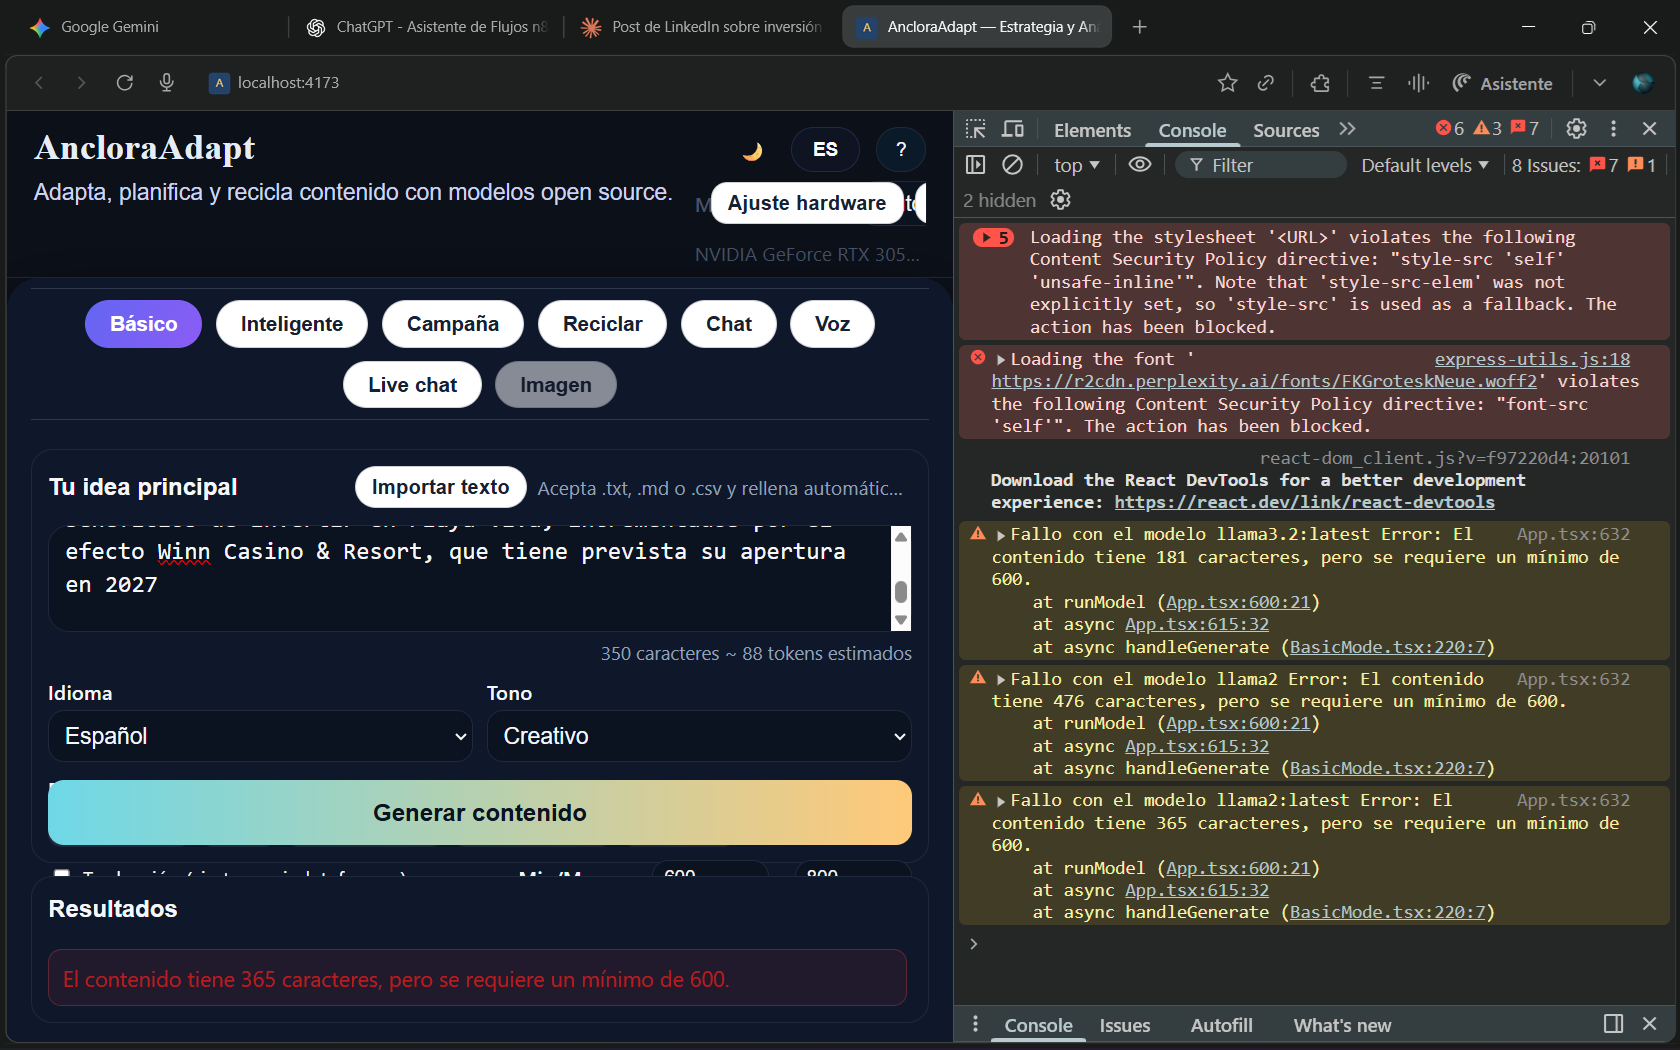
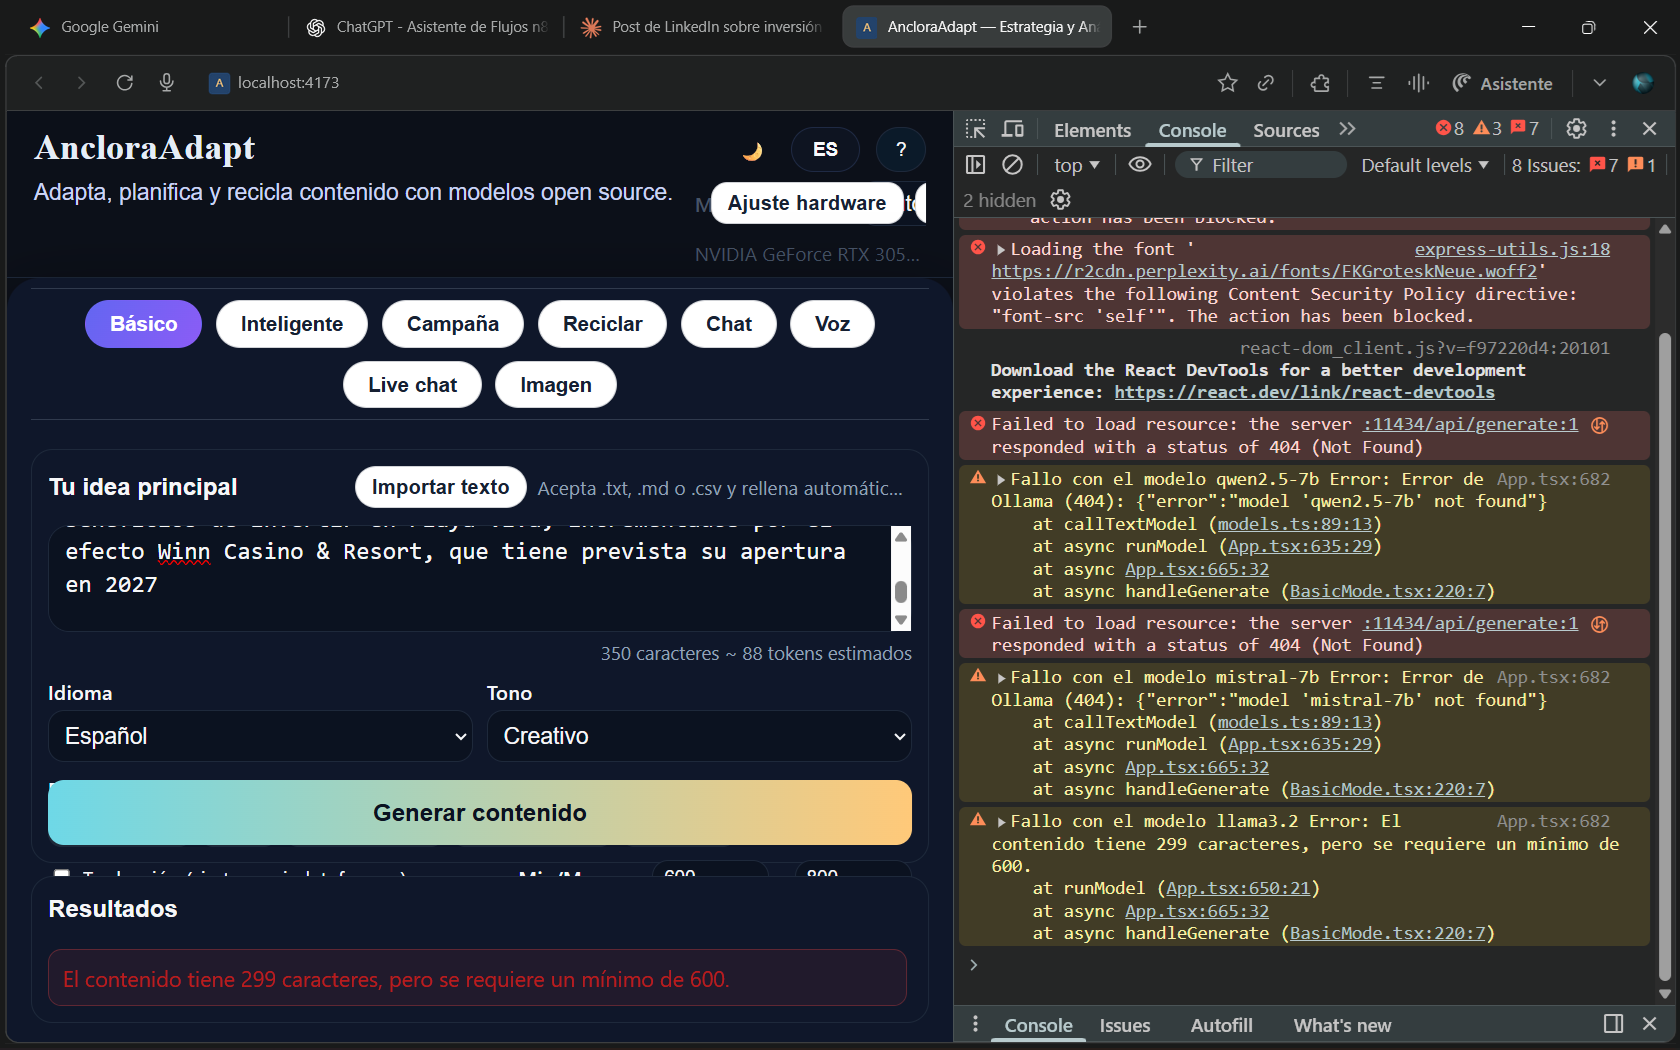
Excelente. He implementado la solución. Aquí está el resumen de los cambios:
Fix: Model ID Mapping

  Problema: Los IDs de modelo que vienen del backend (qwen2.5-7b, mistral-7b, llama3.2) no
  coinciden con los nombres reales en Ollama (qwen2.5:7b, mistral:latest, llama3.2:latest),
  causando errores 404.

  Solución Implementada:

  1. Creé un mapeador en src/api/models.ts (líneas 30-53):
    - Mapea IDs canónicos a nombres reales de Ollama
    - Maneja todos los modelos que tengo disponibles
    - Si no encuentra un mapeo, devuelve el ID tal cual
  2. Actualicé callTextModel() para usar el mapeador:
    - Antes: Enviaba directamente qwen2.5-7b a Ollama (error 404)
    - Ahora: Mapea a qwen2.5:7b antes de llamar a Ollama

  Mapeos definidos:
  qwen2.5-7b        → qwen2.5:7b
  qwen2.5-14b       → qwen2.5:14b
  mistral-7b        → mistral:latest
  llama3.2          → llama3.2:latest
  llama2            → llama2:latest
  orca-mini         → orca-mini:latest
  phi               → phi:latest
  gemma             → gemma3:4b

  Ahora cuando se presione "Generar contenido", el sistema debería:
  1. Obtener las recomendaciones del backend (con IDs canónicos)
  2. Mapearlas a nombres reales de Ollama
  3. Ejecutar exitosamente sin errores 404 Excellent! I've verified the complete implementation. Here's the current status of your
  Image mode issue:

  Image Mode Fix - Complete Analysis

  Problem: Image mode was being disabled despite sufficient hardware (4GB VRAM + 31.5GB RAM)
[…]

Changed region(s): [[0.5571, 0.1829, 1.0, 0.9448], [0.2786, 0.3352, 0.3714, 0.3962]]

diff --git a/src/api/models.ts b/src/api/models.ts
@@ -27,6 +27,31 @@ const API_KEY = (
 
 export const DEFAULT_TEXT_MODEL_ID = TEXT_MODEL_ID;
 
+// Mapeador de IDs canónicos a nombres reales de Ollama
+// Los IDs canónicos vienen del backend (hardware_profiles.py), pero los nombres
+// reales de Ollama pueden ser diferentes (ej: qwen2.5-7b → qwen2.5:7b)
+const MODEL_ID_MAPPER: Record<string, string> = {
+  "qwen2.5-7b": "qwen2.5:7b",
+  "qwen2.5-14b": "qwen2.5:14b",
+  "mistral-7b": "mistral:latest",
+  "mistral": "mistral:latest",
+  "llama3.2": "llama3.2:latest",
+  "llama3": "llama3.2:latest",
+  "llama2": "llama2:latest",
+  "orca-mini": "orca-mini:latest",
+  "phi": "phi:latest",
+  "gemma": "gemma3:4b",
+};
+
+/**
+ * Mapea un ID canónico de modelo a su nombre real en Ollama
+ * Si el modelo no tiene mapeo, lo devuelve tal cual
+ */
+export const mapModelIdToOllamaName = (canonicalId: string): string => {
+  const normalized = canonicalId.toLowerCase().trim();
+  return MODEL_ID_MAPPER[normalized] || normalized;
+};
+
 const defaultTimeoutMs = 300_000;
 
 const withTimeout = async <T>(
@@ -71,12 +96,15 @@ export const callTextModel = async (
   );
 
   try {
+    // Mapear ID canónico a nombre real de Ollama
+    const ollamaModelName = mapModelIdToOllamaName(targetModelId);
+
     const response = await withTimeout(
       fetch(`${OLLAMA_BASE_URL}/api/generate`, {
         method: "POST",
         headers: jsonHeaders(),
         body: JSON.stringify({
-          model: targetModelId,
+          model: ollamaModelName,
           prompt,
           stream: false,
           temperature: 0.4,
